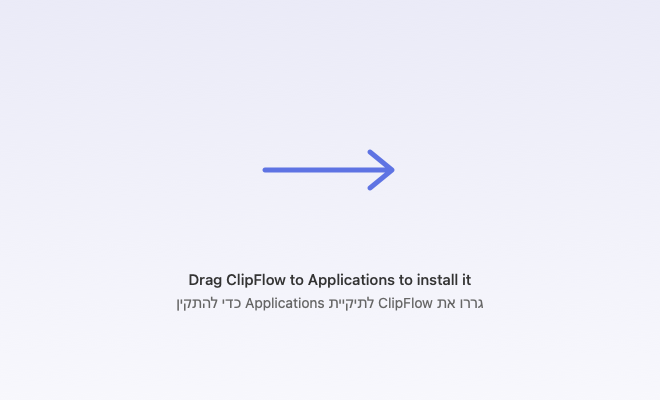
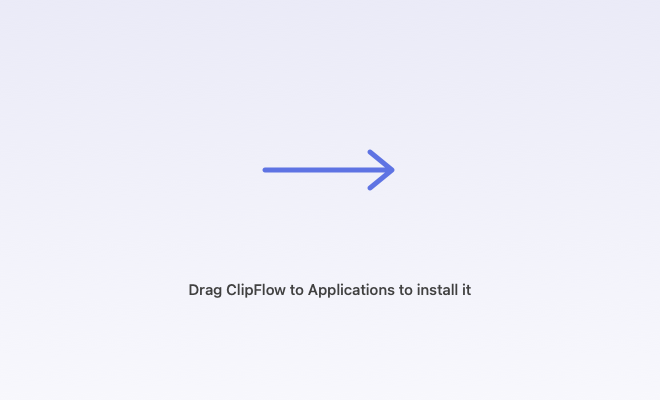
DMG installer: English-only background, safer packaging (#64)
- The background says it in English only, next to the arrow; it is one image for every user's language
- A trap and a retried detach never leave the image mounted; a mount left by an interrupted run is detached before the output folder is cleared
- The layout wait needs .DS_Store to exist and stay unchanged; the Finder script gives up after a minute
- INSTALLATION drops the separate move-to-Applications step

Changed region(s): [[0.2727, 0.69, 0.7273, 0.78]]

diff --git a/scripts/render-dmg-background.swift b/scripts/render-dmg-background.swift
@@ -34,8 +34,7 @@ func render(scale: CGFloat) -> Data? {
     let paragraph = NSMutableParagraphStyle()
     paragraph.alignment = .center
     let lines: [(String, CGFloat, NSFont, NSColor)] = [
-        ("Drag ClipFlow to Applications to install it", 106, .systemFont(ofSize: 15, weight: .medium), NSColor(white: 0.2, alpha: 1)),
-        ("גררו את ClipFlow לתיקיית Applications כדי להתקין", 82, .systemFont(ofSize: 14), NSColor(white: 0.4, alpha: 1))
+        ("Drag ClipFlow to Applications to install it", 96, .systemFont(ofSize: 15, weight: .medium), NSColor(white: 0.25, alpha: 1))
     ]
     for (text, y, font, color) in lines {
         NSAttributedString(string: text, attributes: [.font: font, .foregroundColor: color, .paragraphStyle: paragraph])

diff --git a/INSTALLATION.md b/INSTALLATION.md
@@ -18,16 +18,7 @@ See [Building from Source](#building-from-source) below
 - Download `ClipFlow.dmg` from Releases and open it
 - Drag ClipFlow onto Applications in the window that opens
 
-### 2. Move to Applications
-```bash
-# Option A: Drag & Drop
-# Drag ClipFlow.app to /Applications in Finder
-
-# Option B: Terminal
-cp -R ClipFlow.app /Applications/
-```
-
-### 3. First Launch (Important!)
+### 2. First Launch (Important!)
 
 ⚠ **ClipFlow is not notarized by Apple** (we're open source and free). You'll see a security warning.
 
@@ -43,7 +34,7 @@ xattr -cr /Applications/ClipFlow.app
 open /Applications/ClipFlow.app
 ```
 
-### 4. Grant Accessibility Permission
+### 3. Grant Accessibility Permission
 
 ClipFlow needs Accessibility permission for:
 - Monitoring clipboard changes
